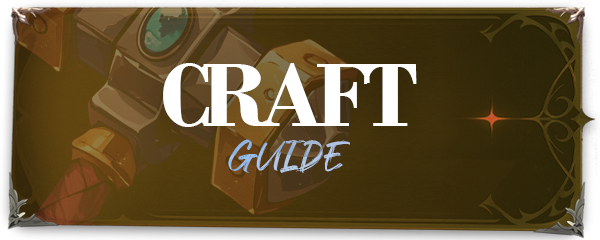
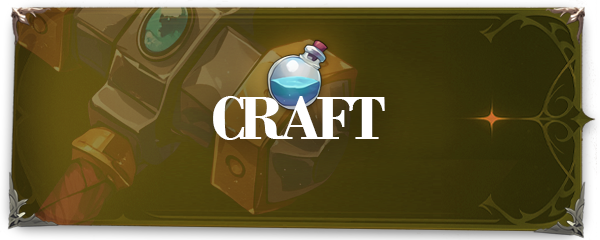
GITBOOK-429: No subject

Changed region(s): [[0.27, 0.1167, 0.72, 0.7292]]

diff --git a/README.md b/README.md
@@ -6,26 +6,40 @@ description: This is EXTOCIUM’s game guidebook.
 
 {% columns %}
 {% column %}
-<figure><img src=".gitbook/assets/Git_Hero (2).png" alt=""><figcaption></figcaption></figure>
+<figure><img src=".gitbook/assets/Git_Hero.png" alt=""><figcaption></figcaption></figure>
 {% endcolumn %}
 
 {% column %}
-<figure><img src=".gitbook/assets/Git_Craft (1).png" alt=""><figcaption></figcaption></figure>
+<figure><img src=".gitbook/assets/Git_Battle.png" alt=""><figcaption></figcaption></figure>
 {% endcolumn %}
 {% endcolumns %}
 
-Game Mode
+{% columns %}
+{% column %}
+<figure><img src=".gitbook/assets/Git_Traning.png" alt=""><figcaption></figcaption></figure>
+{% endcolumn %}
 
-Quest
+{% column %}
+<figure><img src=".gitbook/assets/Git_Craft.png" alt=""><figcaption></figcaption></figure>
+{% endcolumn %}
+{% endcolumns %}
 
-Wallet & Trade
+{% columns %}
+{% column %}
+<figure><img src=".gitbook/assets/Git_wallet.png" alt=""><figcaption></figcaption></figure>
+{% endcolumn %}
 
-Step Hard
+{% column %}
+<figure><img src=".gitbook/assets/Git_monster.png" alt=""><figcaption></figcaption></figure>
+{% endcolumn %}
+{% endcolumns %}
 
-Gold & XTO Swap
+{% columns %}
+{% column %}
 
-Club
+{% endcolumn %}
 
-Field Info
+{% column %}
 
-Shop
+{% endcolumn %}
+{% endcolumns %}
